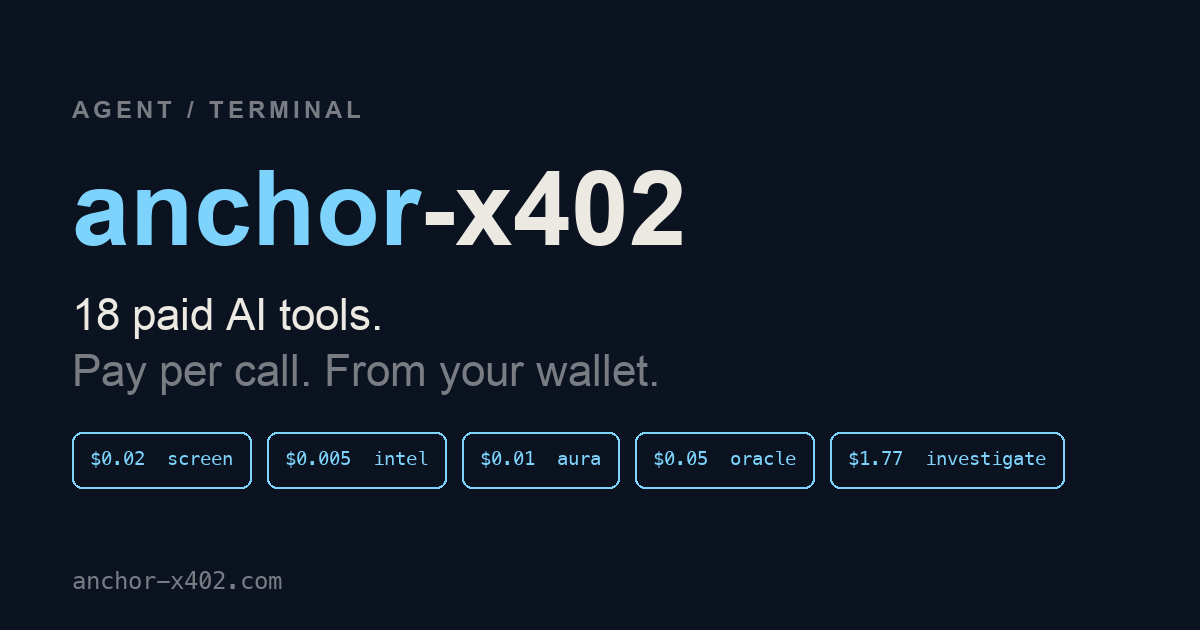
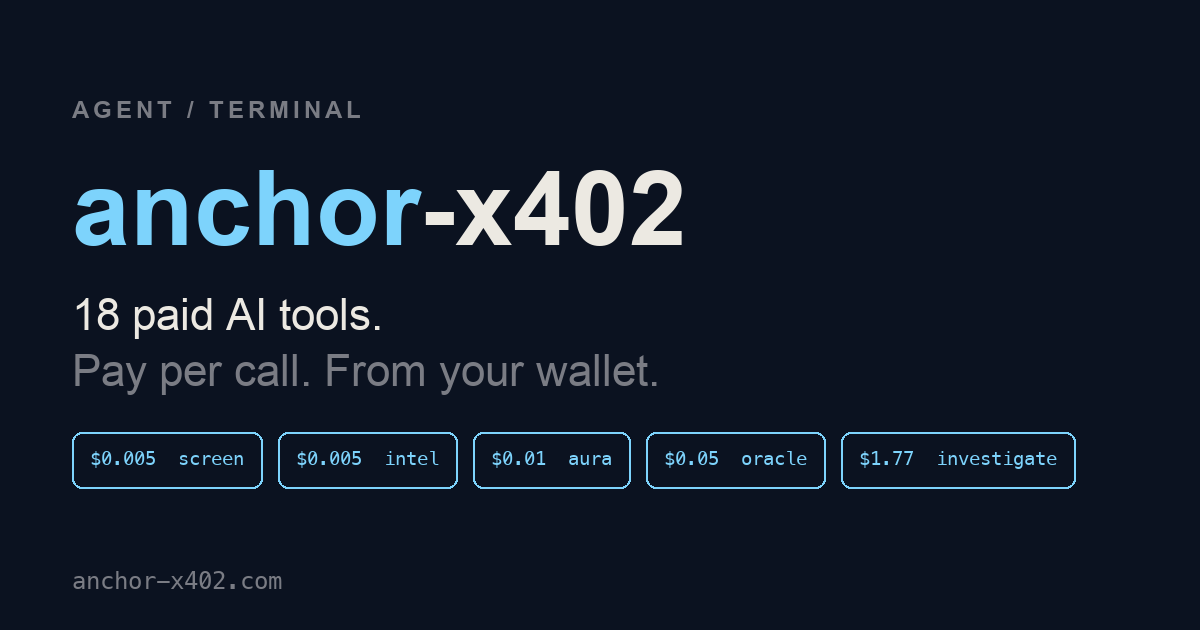
feat(screen): cut /v1/screen from $0.02 to $0.005
The screen sits at the pre-payment checkpoint, where the payment it
protects is often $0.001-$0.01; a $0.02 check was the larger cost.
Same verdict, every rail (Base/Solana/Arc 5000 base units, Polygon ¥1).
Listings, docs, the agent card (re-signed) and the og image follow.

Changed region(s): [[0.0925, 0.6937, 0.74, 0.7841], [0.7708, 0.7238, 0.8942, 0.754]]

diff --git a/static/chat.html b/static/chat.html
@@ -374,7 +374,7 @@ const PROMPTS = [
   { label: "roast something",          text: "roast this: ",                   placeholder: "a tweet, an idea, your last commit message…", price: "$0.05" },
   { label: "aura-read a wallet",       text: "aura check: ",                   placeholder: "wallet, person, project, meme…",            price: "$0.01" },
   { label: "yes/no oracle (anchored)", text: "oracle: ",                       placeholder: "will I ship today?",                        price: "$0.05" },
-  { label: "sanctions-check a wallet", text: "is this wallet sanctioned: ",    placeholder: "0x… or solana base58",                      price: "$0.02" },
+  { label: "sanctions-check a wallet", text: "is this wallet sanctioned: ",    placeholder: "0x… or solana base58",                      price: "$0.005" },
   { label: "grade an idea / pitch",    text: "grade: ",                        placeholder: "your pitch, code, idea…",                    price: "$0.01" },
   { label: "summarize a URL",          text: "tldr: ",                         placeholder: "paste a URL or text",                       price: "$0.01" },
 ];
@@ -406,7 +406,7 @@ const DEMOS = {
             output: { answer: "MAYBE", explanation: "Possible if you cut the bottom three items and stop opening Twitter.", merkle_root: "ab0898397c…dcb9bd686b3", base_tx: "0x7fb4d107d8…0974e96", solana_tx: "u8rqU4oSQk…ZMPKW2" } },
   tldr:   { input: "tldr https://anchor-x402.com", price: "$0.01",
             output: { summary_bullets: ["Fifteen x402-paid AI services for agents.", "Pay per call in USDC on Base or Solana.", "Indexed across CDP Bazaar, agentic.market, Virtuals ACP, MCP registries."], source_chars: 5200 } },
-  screen: { input: "is 0x098b716b8aaf21512996dc57eb0615e2383e2f96 sanctioned?", price: "$0.02",
+  screen: { input: "is 0x098b716b8aaf21512996dc57eb0615e2383e2f96 sanctioned?", price: "$0.005",
             output: { wallet: "0x098b…2f96", sanctions_match: true, sanctioned_lists: ["OFAC SDN", "LAZARUS GROUP", "DPRK3"], risk_level: "critical" } },
   grade:  { input: 'grade "uber but for sourdough starters"', price: "$0.01",
             output: { letter_grade: "C-", marginalia: ["Live-culture cargo is a regulatory mood.", "Brand assumes sourdough discourse is monetizable. It isn't.", "Vertical-niche food platforms have surprised before. Keep one eye on it."], summary: "Adventurous concept, brutal unit economics." } },

diff --git a/docs/_includes/head-custom.html b/docs/_includes/head-custom.html
@@ -4,13 +4,13 @@
 <meta property="og:title" content="anchor-x402 — 18 x402-paid services on Base, Solana, and Polygon (JPYC)">
 <meta property="og:description" content="Eighteen x402-paid endpoints on three rails — Base USDC, Solana USDC, JPYC on Polygon (¥1 per anchor call). 9 commodity primitives, async wallet due-diligence, signed RNG, x402 spend accounting, and 5 universal LLM endpoints. Hosted chatbot at chat.anchor-x402.com — connect a wallet, chat free, pay only when you approve.">
 <meta property="og:url" content="https://anchor-x402.com">
-<meta property="og:image" content="https://anchor-x402.com/og.png?v=18">
+<meta property="og:image" content="https://anchor-x402.com/og.png?v=19">
 
 <!-- Twitter Card -->
 <meta name="twitter:card" content="summary_large_image">
 <meta name="twitter:title" content="anchor-x402 — 18 x402-paid services. Three rails. USDC + JPYC.">
 <meta name="twitter:description" content="Eighteen endpoints on Base, Solana, and Polygon (JPYC, ¥1 per anchor). Sanctions, wallet intel, due diligence, anchoring, RNG, spend accounting, LLM. Hosted chatbot lets anyone use them with a passkey wallet.">
-<meta name="twitter:image" content="https://anchor-x402.com/og.png?v=18">
+<meta name="twitter:image" content="https://anchor-x402.com/og.png?v=19">
 
 <!-- AI / agent discovery hints -->
 <link rel="alternate" type="application/json" title="x402 service catalog" href="/.well-known/x402.json">

diff --git a/docs/_layouts/home.html b/docs/_layouts/home.html
@@ -80,7 +80,7 @@
           <div class="flow-step-h"><span class="flow-num">1</span> agent requests</div>
 <pre><code>GET /v1/screen?wallet=0x1234…
 → <span class="resp-402">402 Payment Required</span>
-   x-payment-required: { ... $0.02 USDC ... }</code></pre>
+   x-payment-required: { ... $0.005 USDC ... }</code></pre>
         </div>
         <div class="flow-step">
           <div class="flow-step-h"><span class="flow-num">2</span> agent signs</div>

diff --git a/app.py b/app.py
@@ -500,7 +500,7 @@ _SCREEN_DESCRIPTION = (
     "funds to it: an OFAC SDN sanctions check of the address plus address reputation "
     "(drainer, phishing, mixer, money laundering) for EVM and Solana. Returns one "
     "verdict to branch on (allow, review, or block) with a 0-100 risk score and "
-    "per-signal evidence. AML / KYT counterparty check for x402 payments. $0.02 USDC."
+    "per-signal evidence. AML / KYT counterparty check for x402 payments. $0.005 USDC."
 )
 
 _screen_bazaar_ext = declare_discovery_extension(
@@ -990,7 +990,7 @@ x402_routes = {
         extensions={**_anchor_bazaar_ext},
     ),
     "GET /v1/screen": RouteConfig(
-        accepts=_accepts_at("$0.02"),
+        accepts=_accepts_at("$0.005"),
         description=_SCREEN_DESCRIPTION,
     ),
     "POST /v1/attest": RouteConfig(
@@ -1111,7 +1111,7 @@ x402_routes = {
     # POST wrappers for GET-only endpoints — every crawler probe now reaches
     # the 402 challenge instead of bouncing on 405 method-mismatch.
     "POST /v1/screen": RouteConfig(
-        accepts=_accepts_at("$0.02"),
+        accepts=_accepts_at("$0.005"),
         description=_SCREEN_DESCRIPTION,
         extensions={**_screen_bazaar_ext},
     ),

diff --git a/scripts/register_agent_arena.py b/scripts/register_agent_arena.py
@@ -42,7 +42,7 @@ PAYLOAD = {
     "description": (
         "Eighteen x402-paid services for AI agents. One AWS Lambda, one OpenAPI spec. Pay per "
         "call in USDC on Base or Solana mainnet — no API keys, no accounts, no subscriptions. "
-        "Hash anchoring to Base+Solana ($0.005), wallet risk screening ($0.02), signed "
+        "Hash anchoring to Base+Solana ($0.005), wallet risk screening ($0.005), signed "
         "decision attestation with dual-chain anchor ($0.010), transaction and calldata decode "
         "($0.001), ENS/SNS resolution ($0.001), token price ($0.001), datetime parsing ($0.001), "
         "bundled wallet intel ($0.005), verifiable signed RNG ($0.001), x402 spend accounting "

diff --git a/scripts/test_e2e.py b/scripts/test_e2e.py
@@ -159,7 +159,7 @@ def test_intel_wallet(s) -> bool:
 
 TESTS = {
     "anchor": (test_anchor, "$0.005"),
-    "screen": (test_screen, "$0.02"),
+    "screen": (test_screen, "$0.005"),
     "attest": (test_attest, "$0.010"),
     "decode-tx": (test_decode_tx, "$0.001"),
     "resolve-name": (test_resolve_name, "$0.001"),

diff --git a/scripts/gen_og.py b/scripts/gen_og.py
@@ -27,7 +27,7 @@ FONT_MONO = "/System/Library/Fonts/Menlo.ttc"
 
 # (price, name) — representative endpoints; prices must match the catalogue.
 CHIPS = [
-    ("$0.02", "screen"),
+    ("$0.005", "screen"),
     ("$0.005", "intel"),
     ("$0.01", "aura"),
     ("$0.05", "oracle"),

diff --git a/pay-skills/anchor-x402/wallet-screen/PAY.md b/pay-skills/anchor-x402/wallet-screen/PAY.md
@@ -1,7 +1,7 @@
 ---
 name: wallet-screen
 title: "anchor-x402: wallet screening"
-description: "Wallet risk pre-flight for agent payments. OFAC SDN sanctions (every digital-currency address on Treasury's OFAC SDN list (Lazarus Group, Garantex and others)) plus address-reputation (drainer, phishing, mixer, laundering) resolved to an allow/review/block recommendation with a 0-100 risk score and per-signal detail — for $0.02 USDC per call."
+description: "Wallet risk pre-flight for agent payments. OFAC SDN sanctions (every digital-currency address on Treasury's OFAC SDN list (Lazarus Group, Garantex and others)) plus address-reputation (drainer, phishing, mixer, laundering) resolved to an allow/review/block recommendation with a 0-100 risk score and per-signal detail — for $0.005 USDC per call."
 use_case: "Use for AML pre-flight checks before any treasury transfer, KYC onboarding, vendor diligence, payroll wallet verification, marketplace counterparty checks, payment processor compliance, or any agent workflow that needs cheap, fast sanctions clearance."
 category: security
 service_url: https://api.anchor-x402.com
@@ -9,7 +9,7 @@ openapi:
   url: https://api.anchor-x402.com/openapi.json
 ---
 
-`GET /v1/screen?wallet=<address>` — pay $0.02 USDC, get a risk verdict
+`GET /v1/screen?wallet=<address>` — pay $0.005 USDC, get a risk verdict
 back. Address shape detection is automatic: `0x` + 40 hex → EVM, base58
 (32-44 chars) → Solana. The verdict carries `recommendation`
 (`allow`/`review`/`block` — the field to branch on), `risk_score`

diff --git a/docs/plugins/base-mcp.md b/docs/plugins/base-mcp.md
@@ -35,7 +35,7 @@ If the user's USDC balance is below the chosen endpoint's price, halt with a cle
 | # | Endpoint | Method | Price | Category | One-liner |
 |---|----------|--------|-------|----------|-----------|
 | 1 | `/v1/anchor` | POST / GET | $0.005 | security | Dual-chain hash anchoring (Base + Solana) |
-| 2 | `/v1/screen` | GET / POST | $0.02 | security | Wallet risk pre-flight — OFAC + address-reputation → allow/review/block |
+| 2 | `/v1/screen` | GET / POST | $0.005 | security | Wallet risk pre-flight — OFAC + address-reputation → allow/review/block |
 | 3 | `/v1/attest` | POST / GET | $0.010 | security | Verify signature → dual-chain anchor |
 | 4 | `/v1/decode/tx` | POST / GET | $0.001 | devtools | Structured mainnet tx decode (Base/Eth/Sol) |
 | 5 | `/v1/resolve/name` | GET / POST | $0.001 | identity | ENS + Bonfida SNS resolver |
@@ -114,7 +114,7 @@ Anchor a 32-byte hash to **Base + Solana mainnet in parallel**. Returns both tra
 
 ---
 
-### 2. `/v1/screen` — wallet risk pre-flight · $0.02
+### 2. `/v1/screen` — wallet risk pre-flight · $0.005
 
 Returns an `allow` / `review` / `block` recommendation with a risk score and per-signal detail: OFAC SDN sanctions plus address-reputation (drainer, phishing, mixer, laundering) from GoPlus. Degrades to a partial verdict rather than failing if the reputation layer is unavailable.
 

diff --git a/docs/trust/threat-model.md b/docs/trust/threat-model.md
@@ -96,7 +96,7 @@ Each row is a concrete attack scenario, the existing mitigation, and the residua
 
 **Differentiator (see §5):** for this endpoint the consumer's trust requirement on `anchor-x402` is *limited to liveness*. Correctness is enforceable independently from the chain.
 
-### 3.2 `GET /v1/screen` — $0.02 — wallet risk pre-flight (OFAC + address-reputation)
+### 3.2 `GET /v1/screen` — $0.005 — wallet risk pre-flight (OFAC + address-reputation)
 
 | Class | Threat | Mitigation | Residual risk |
 |---|---|---|---|
@@ -304,7 +304,7 @@ The cheapest endpoints ($0.001) are the highest amplification surface. Threat pr
 
 | Endpoint | Inbound | Outbound (worst case) | Amplification |
 |---|---|---|---|
-| `/v1/screen` | $0.02 | 1 GoPlus (cached 1h) | Low |
+| `/v1/screen` | $0.005 | 1 GoPlus (cached 1h) | Low |
 | `/v1/decode/tx` | $0.001 | 1 RPC | Low |
 | `/v1/resolve/name` | $0.001 | 1–3 RPC | Low |
 | `/v1/price/token` | $0.001 | 1 CoinGecko (cached 60s) | Low (cache absorbs) |

diff --git a/docs/demo.md b/docs/demo.md
@@ -49,7 +49,7 @@ Each paid call is its own EIP-3009 signature for a single amount to a single add
 
 `aura` ($0.01) is one of eighteen. Same approval pattern works for:
 
-- **Compliance** — wallet risk screen ($0.02), bundled wallet intel ($0.005), full async due-diligence investigator ($1.77)
+- **Compliance** — wallet risk screen ($0.005), bundled wallet intel ($0.005), full async due-diligence investigator ($1.77)
 - **Chain utilities** — dual-chain hash anchoring ($0.005), signed decision attestations ($0.01), tx decode, calldata decode, ENS / SNS resolution, token price, datetime parsing, verifiable signed RNG (`roll`) ($0.001 each)
 - **Fun / shareable** — roast ($0.05), oracle with on-chain anchored verdict ($0.05), tldr ($0.01), aura ($0.01), grade ($0.01)
 

diff --git a/README.md b/README.md
@@ -15,7 +15,7 @@
 | Endpoint | Method | Price | Purpose |
 |---|---|---|---|
 | `/v1/anchor` | POST | $0.005 | Anchor a 32-byte hash to Base + Solana mainnet in parallel |
-| `/v1/screen` | GET | $0.02 | OFAC sanctions + address-reputation (drainer/phishing/mixer) → allow/review/block verdict |
+| `/v1/screen` | GET | $0.005 | OFAC sanctions + address-reputation (drainer/phishing/mixer) → allow/review/block verdict |
 | `/v1/attest` | POST | $0.010 | Verify a wallet signature, dual-chain anchor the result |
 | `/v1/decode/tx` | POST | $0.001 | Structured decode of any mainnet tx (Base / Ethereum / Solana) |
 | `/v1/resolve/name` | GET | $0.001 | Cross-chain name resolution (ENS, Bonfida SNS) |
